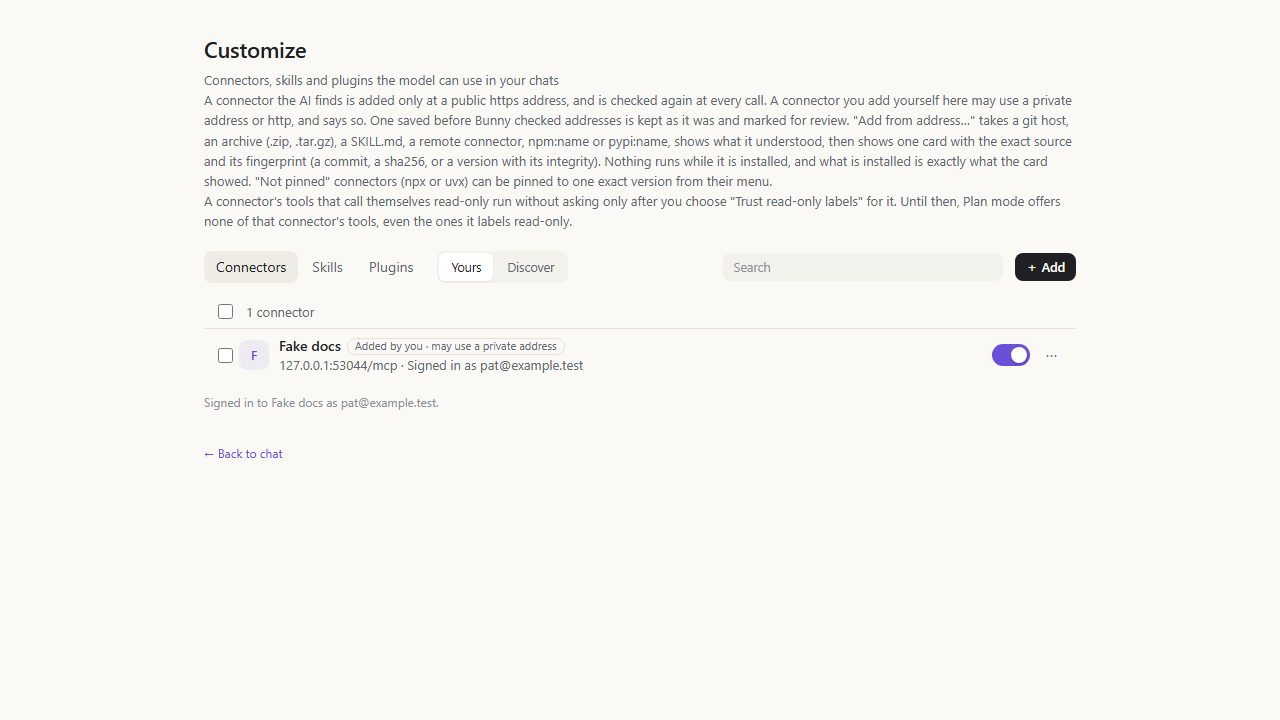
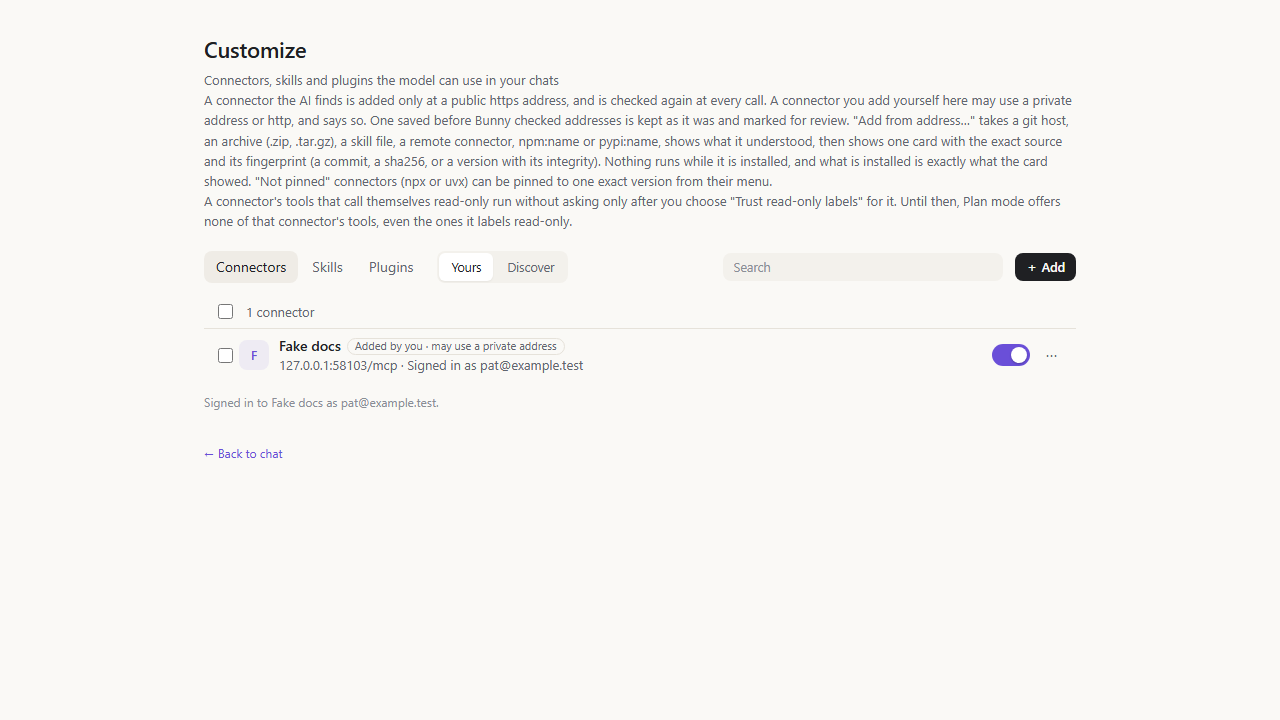
LOCAL-MODELS: per Design, the card keeps the Running line under the title and drops the 'is loaded' row; Stop now stays beside the idle line

Changed region(s): [[0.2812, 0.1833, 0.8438, 0.2139], [0.25, 0.4889, 0.2812, 0.5194]]

diff --git a/src/ui/local-models.js b/src/ui/local-models.js
@@ -133,7 +133,7 @@ export function mountLocalModels(root, { getJSON, sendJSON }) {
     host.append(el('div', { class: 'group lm-group' },
       row('Use graphics card', s.runtime.backend === 'vulkan' ? 'Runs on: graphics card (Vulkan). Off uses only the processor: slower, but works on every PC' : 'Runs on: CPU', el('label', { class: 'switch' }, sw)),
       row('Stop after idle', 'Frees memory when you stop chatting', idle)));
-    if (s.running) host.append(el('div', { class: 'group lm-group lm-running' }, row(`${s.running.name} is loaded`, `Using about ${gb(s.running.usedBytes)}. Stops by itself after ${IDLE_LABEL[s.runtime.idleMinutes].toLowerCase()} idle`, button('Stop now', () => act('/stop'), 'btn'))));
+    if (s.running) host.append(el('div', { class: 'lm-running-line' }, el('small', { class: 'desc', textContent: `Stops by itself after ${IDLE_LABEL[s.runtime.idleMinutes].toLowerCase()} idle` }), button('Stop now', () => act('/stop'), 'btn')));
     host.append(el('div', { class: 'lm-sub', textContent: 'Models' }));
     host.append(el('div', { class: 'group lm-group lm-models' }, ...s.models.map(modelRow),
       row("A model that isn't on this list", "Only from a publisher you trust. Gated models and private logins aren't supported", button('Add by name…', () => { adding = !adding; paint(); }, 'btn'))));

diff --git a/docs/design/bunny-app-bindings.css b/docs/design/bunny-app-bindings.css
@@ -1753,3 +1753,5 @@ textarea.bad, input.bad { border-color: var(--bad); }
 .lm-tools, .lm-trust { display: flex; gap: 6px; align-items: center; font-size: 13px; }
 .lm-where { word-break: break-all; }
 .lm-own .lm-model small, .lm-folders .lm-row .desc { word-break: break-all; }
+
+.lm-running-line { display: flex; gap: 10px; align-items: center; justify-content: space-between; flex-wrap: wrap; }

diff --git a/src/ui/app.css b/src/ui/app.css
@@ -2706,3 +2706,5 @@ textarea.bad, input.bad { border-color: var(--bad); }
 .lm-tools, .lm-trust { display: flex; gap: 6px; align-items: center; font-size: 13px; }
 .lm-where { word-break: break-all; }
 .lm-own .lm-model small, .lm-folders .lm-row .desc { word-break: break-all; }
+
+.lm-running-line { display: flex; gap: 10px; align-items: center; justify-content: space-between; flex-wrap: wrap; }
